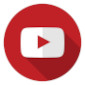
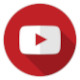
atualizei o projeto

diff --git a/index.html b/index.html
@@ -20,11 +20,11 @@
 
     <section id="redes-sociais">
  <a href="home.html" target="tela"><img src="imagens/house.jpg" alt="Home"></a> <br>
- <a href="https://github.com/mariacarolinasilvasantos?tab=repositories" target="tela"><img src="imagens/githublogo.jpg" alt="GitHub"></a> <br>
- <a href="https://www.youtube.com/@YouTubeBrasil" target="tela"><img src="imagens/youtube.jpg" alt="Youtube"></a> <br>
+ <a href="https://github.com/mariacarolinasilvasantos?tab=repositories" target="tela"><img src="imagens/git-hub.jpg" alt="GitHub"></a> <br>
+ <a href="https://www.youtube.com/@YouTubeBrasil" target="tela"><img src="imagens/youtube-2.jpg" alt="Youtube"></a> <br>
  <a href="https://www.instagram.com/instagram/" target="tela"><img src="imagens/instagram.jpg" alt="Instagram"></a> <br>
  <a href="#" target="tela"><img src="imagens/facebook.jpg" alt="Facebook"></a> <br>
- <a href="#" target="tela"><img src="imagens/xtwitter.jpg" alt="X"></a>
+ <a href="#" target="tela"><img src="imagens/x-x.jpg" alt="X"></a>
     </section>
 </main>
    

diff --git a/estilo/style.css b/estilo/style.css
@@ -52,7 +52,7 @@ section#redes-sociais img {
     margin: 10px;
     border-radius: 50%;
     box-shadow: 2px 2px 5px black;
-    box-sizing: border-box;
+   
 }
 
 section#redes-sociais img:hover{
